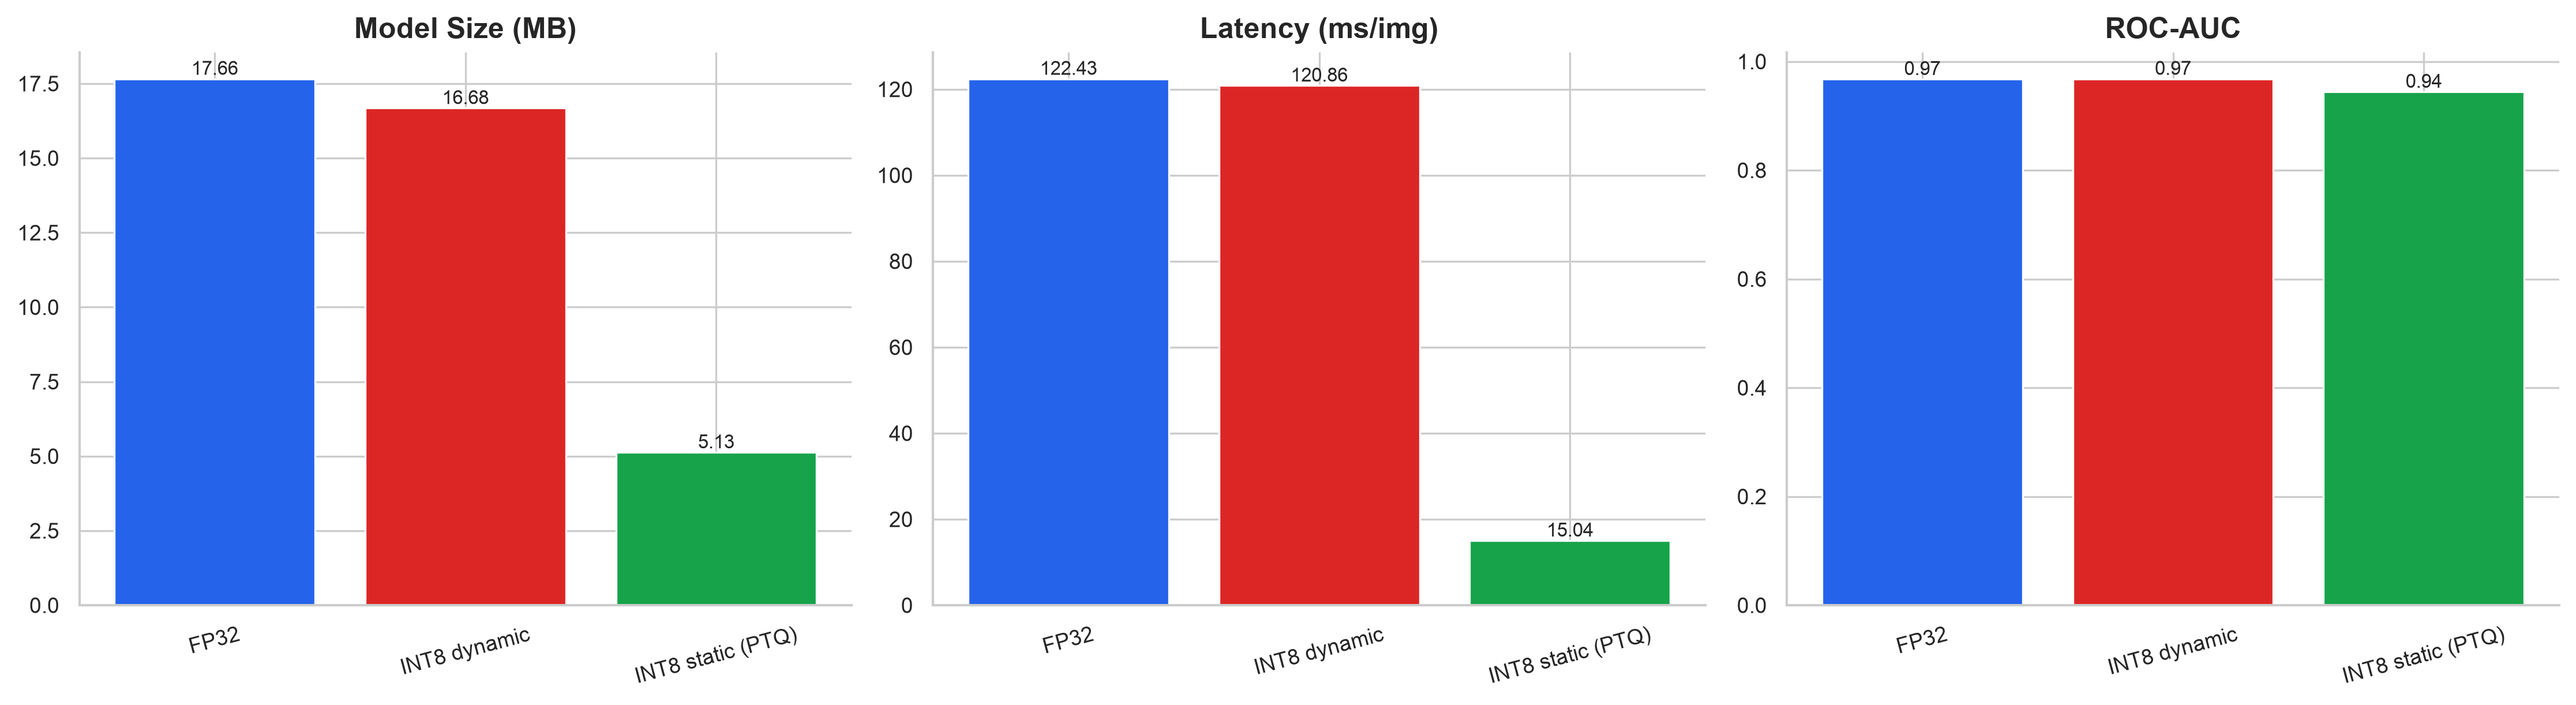
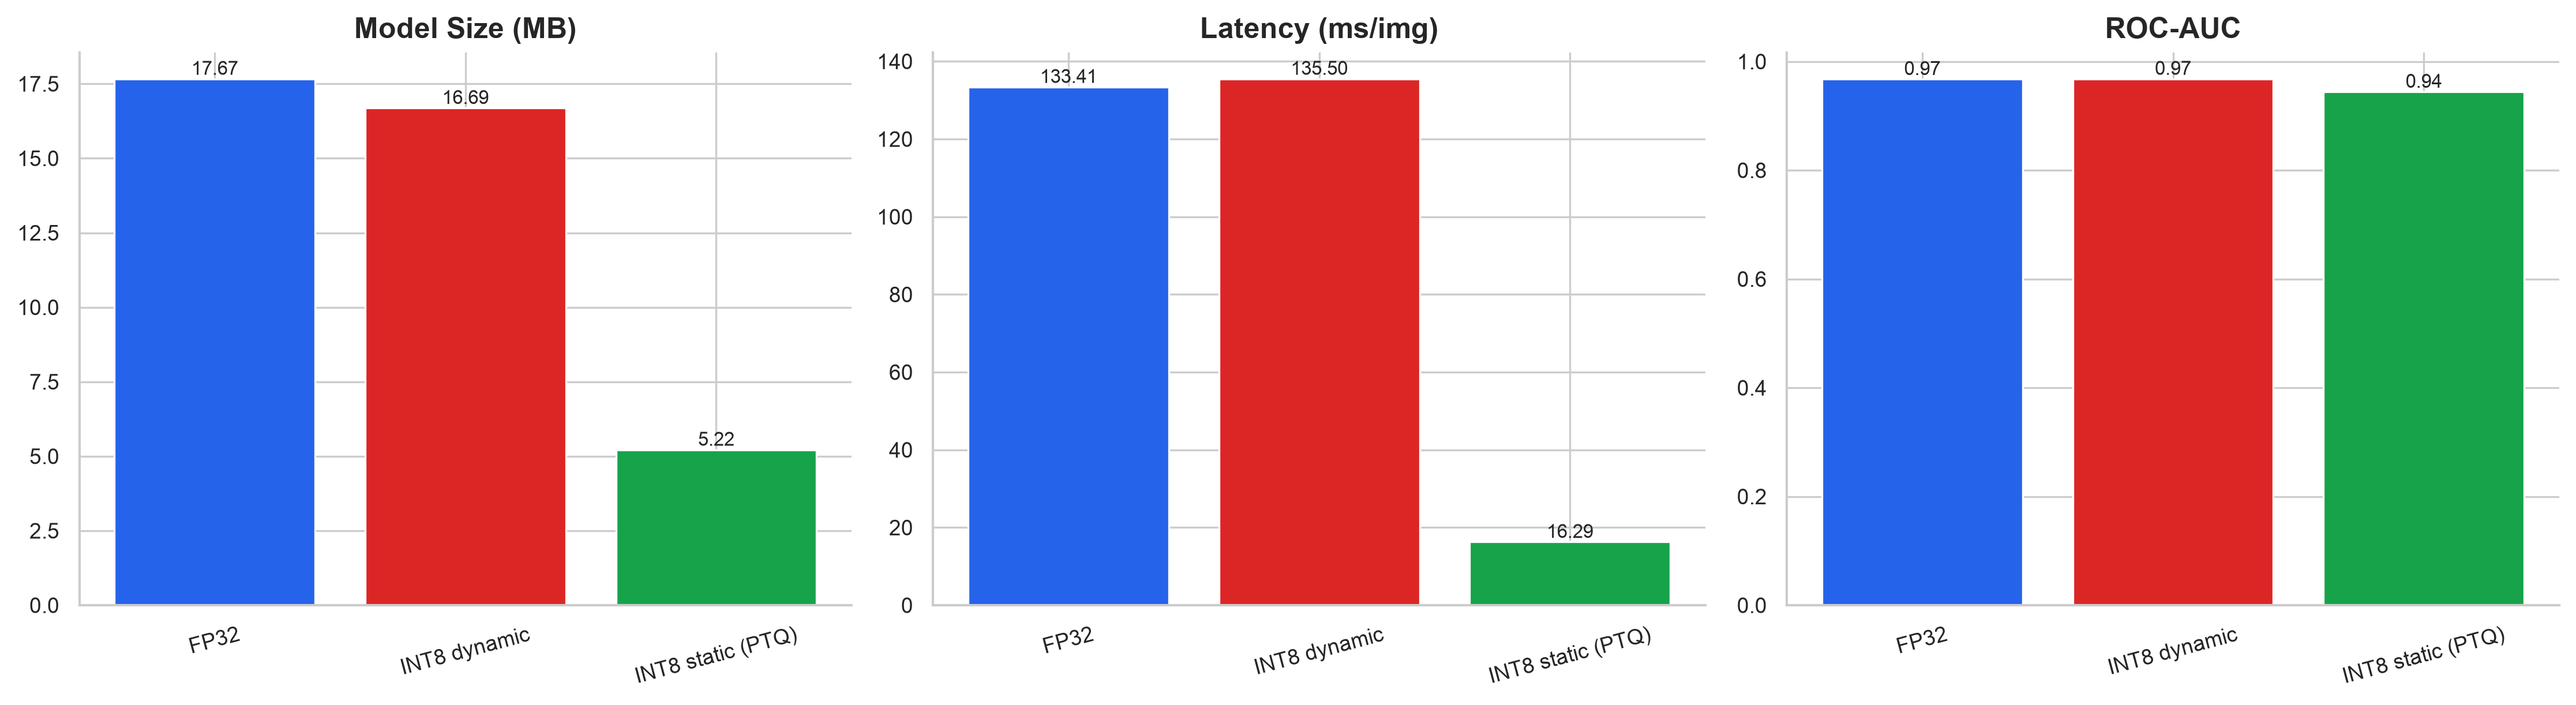
Measure quantized model size from the real deployment artifact
quantize.py's per-variant size was computed by re-serializing the model's
state_dict into an in-memory buffer, which understates the static-PTQ
variant: it is actually saved as a TorchScript archive (torch.jit.save),
a format with real overhead the in-memory measurement misses entirely.

Now each variant's size is measured from the file it is actually saved
to before evaluation runs, so the reported number matches the artifact
that would be deployed. Corrected: static INT8 5.13 MB -> 5.22 MB
(-71% -> -70.5% compression), FP32 17.66 -> 17.67 MB, dynamic INT8
16.68 -> 16.69 MB (all verified against the real saved file sizes on
disk). Accuracy/AUC/latency figures are unaffected.

Investigated porting two further fixes from the publication-real-thesis
branch (test-threshold leakage, subprocess-isolated RSS measurement) but:
the threshold "leak" doesn't apply here (main already scores at a fixed
cfg.evaluate.threshold, not a test-derived one); and isolating the RSS
measurement into subprocesses revealed the peak-RSS-delta metric itself
is highly unstable on this machine (0.2-414.5 MB across repeated runs of
the same variant, and the unmodified streaming-vs-naive measurement
reproduced at 9.4x, 2.0x, 1.2x, 1.2x across successive runs) -- a deeper
measurement-reliability question left for separate investigation, not
folded into this change.

Updated reports/thesis_final.md, thesis_rendered.md, and
paper_assets/paper_ieee.tex to match the corrected numbers; re-ran
[…]

diff --git a/src/quantize.py b/src/quantize.py
@@ -27,7 +27,7 @@ from typing import Any
 import torch
 import torch.nn as nn
 
-from .benchmarking import benchmark_latency, model_size_mb
+from .benchmarking import benchmark_latency, file_size_mb
 from .config import Config
 from .dataset import build_dataloaders
 from .inference import collect_predictions, load_checkpoint
@@ -147,12 +147,15 @@ def run_quantization_study(checkpoint_path: str | Path, cfg: Config | None = Non
     models_dir = ensure_dir(cfg.paths.models_dir)
     variants: list[dict[str, Any]] = []
 
-    def record(model: nn.Module, label: str) -> dict[str, Any]:
+    def record(model: nn.Module, label: str, artifact_path: Path) -> dict[str, Any]:
+        # Size is measured from the actual serialized file that would be deployed
+        # (not an in-memory re-serialization), so e.g. TorchScript archive overhead
+        # for the static-PTQ variant is reflected honestly.
         metrics = _evaluate_cpu(model, data.test_loader, threshold)
         latency = benchmark_latency(model, device, (1, 3, img, img), cfg.benchmark.warmup, cfg.benchmark.repeats)
         row = {
             "variant": label,
-            "size_mb": round(model_size_mb(model), 3),
+            "size_mb": round(file_size_mb(artifact_path), 3),
             "accuracy": round(metrics["accuracy"], 4),
             "auc": round(metrics["auc"], 4),
             "sensitivity": round(metrics["sensitivity"], 4),
@@ -164,14 +167,16 @@ def run_quantization_study(checkpoint_path: str | Path, cfg: Config | None = Non
         return row
 
     # FP32 baseline.
-    fp32_row = record(model_fp32, "FP32")
-    torch.save(model_fp32.state_dict(), models_dir / f"{cfg.experiment_name}_fp32.pth")
+    fp32_path = models_dir / f"{cfg.experiment_name}_fp32.pth"
+    torch.save(model_fp32.state_dict(), fp32_path)
+    fp32_row = record(model_fp32, "FP32", fp32_path)
 
     # Dynamic INT8.
     try:
         dyn = dynamic_quantize(model_fp32, cfg.quantize.backend)
-        record(dyn, "INT8 dynamic")
-        torch.save(dyn.state_dict(), models_dir / f"{cfg.experiment_name}_int8_dynamic.pth")
+        dyn_path = models_dir / f"{cfg.experiment_name}_int8_dynamic.pth"
+        torch.save(dyn.state_dict(), dyn_path)
+        record(dyn, "INT8 dynamic", dyn_path)
     except Exception as exc:  # noqa: BLE001
         logger.warning("Dynamic quantization failed: %s", exc)
 
@@ -180,11 +185,13 @@ def run_quantization_study(checkpoint_path: str | Path, cfg: Config | None = Non
     try:
         # Calibrate on the clean (non-augmented) validation loader; never the test set.
         stat = static_quantize(model_fp32, data.val_loader, backend, img, cfg.quantize.calibration_batches)
-        record(stat, "INT8 static (PTQ)")
+        static_path = models_dir / f"{cfg.experiment_name}_int8_static.pt"
         try:
-            torch.jit.save(torch.jit.script(stat), str(models_dir / f"{cfg.experiment_name}_int8_static.pt"))
+            torch.jit.save(torch.jit.script(stat), str(static_path))
         except Exception:  # noqa: BLE001 - scripting is best-effort
-            torch.save(stat.state_dict(), models_dir / f"{cfg.experiment_name}_int8_static.pth")
+            static_path = models_dir / f"{cfg.experiment_name}_int8_static.pth"
+            torch.save(stat.state_dict(), static_path)
+        record(stat, "INT8 static (PTQ)", static_path)
     except Exception as exc:  # noqa: BLE001
         static_supported = False
         logger.warning("Static PTQ unsupported/failed on backend '%s': %s", backend, exc)

diff --git a/paper_assets/paper_ieee.tex b/paper_assets/paper_ieee.tex
@@ -30,8 +30,8 @@ the held-out Kermany test set ($n{=}624$), a ROC-AUC of \textbf{0.968} (95\% CI
 0.950--0.982), sensitivity 0.967, specificity 0.838, and F1 0.937, with the best
 precision/specificity balance of the three models. An automated integrity check
 detected and removed \textbf{26 duplicate images} causing train--validation leakage.
-\textbf{Static INT8} quantization compresses the model \textbf{71\%} (17.7$\rightarrow$5.1~MB),
-speeds CPU inference \textbf{$\sim$8$\times$} (120$\rightarrow$15~ms), and cuts
+\textbf{Static INT8} quantization compresses the model \textbf{70.5\%} (17.7$\rightarrow$5.2~MB),
+speeds CPU inference \textbf{$\sim$8$\times$} (133$\rightarrow$16~ms), and cuts
 \textbf{peak inference memory $\sim$6$\times$} (980$\rightarrow$164~MB) for a
 2.3-point AUC cost, while a lazy streaming data pipeline uses \textbf{9.4$\times$ less
 RAM} than naïve full-dataset loading. All code, configurations, tests, and artifacts
@@ -110,8 +110,8 @@ EfficientNet-B0), so EfficientNet-B0 gives the best precision/specificity balanc
 
 \subsection{Quantization, Efficiency, and Memory}
 Dynamic INT8 preserves AUC ($-0.04\%$) but compresses only $\sim$6\%; static INT8 PTQ
-compresses 71\% (17.7$\rightarrow$5.1~MB), is $\sim$8$\times$ faster on CPU
-(120$\rightarrow$15~ms), and reduces peak inference memory $\sim$6$\times$
+compresses 70.5\% (17.7$\rightarrow$5.2~MB), is $\sim$8$\times$ faster on CPU
+(133$\rightarrow$16~ms), and reduces peak inference memory $\sim$6$\times$
 (980$\rightarrow$164~MB) for a 2.34-point AUC cost (Tables~\ref{tab:quant},
 \ref{tab:efficiency}). The lazy streaming loader uses 9.4$\times$ less RAM than
 loading the dataset into memory (336~MB vs.\ 3{,}141~MB). The backend-default
@@ -159,7 +159,7 @@ evaluation against bounding boxes (e.g., RSNA).
 
 \section{Conclusion}
 A quantized, explainable EfficientNet-B0 delivers ROC-AUC 0.968 on held-out Kermany CXR
-while operating within a small, predictable memory budget (5.1~MB model, 164~MB peak
+while operating within a small, predictable memory budget (5.2~MB model, 164~MB peak
 inference RAM) --- shown through honest, reproducible measurement. Code and artifacts
 are released.
 

diff --git a/results/tables/table5_quantization.tex b/results/tables/table5_quantization.tex
@@ -5,9 +5,9 @@
 \toprule
 Variant & Size (MB) & Size ↓ (\%) & Accuracy & Acc drop (\%) & AUC & AUC drop (\%) & Latency (ms) \\
 \midrule
-FP32 & 17.661000 & 0.000000 & 0.918300 & 0.000000 & 0.967800 & 0.000000 & 122.428000 \\
-INT8 dynamic & 16.679000 & 5.600000 & 0.919900 & -0.160000 & 0.968200 & -0.040000 & 120.863000 \\
-INT8 static (PTQ) & 5.129000 & 71.000000 & 0.810900 & 10.740000 & 0.944400 & 2.340000 & 15.042000 \\
+FP32 & 17.667000 & 0.000000 & 0.918300 & 0.000000 & 0.967800 & 0.000000 & 133.407000 \\
+INT8 dynamic & 16.688000 & 5.500000 & 0.919900 & -0.160000 & 0.968200 & -0.040000 & 135.504000 \\
+INT8 static (PTQ) & 5.219000 & 70.500000 & 0.810900 & 10.740000 & 0.944400 & 2.340000 & 16.294000 \\
 \bottomrule
 \end{tabular}
 \end{table}

diff --git a/reports/thesis_final.md b/reports/thesis_final.md
@@ -69,8 +69,8 @@ byte-identical duplicate images** that would otherwise have leaked between the t
 and validation splits. Among architectures, all three exceed 0.95 AUC, but
 EfficientNet-B0 provides the **best precision/specificity balance** (38 false
 positives versus 72 and 77 for ResNet-18 and MobileNetV3-Small). **Static INT8
-quantization** compresses the model from **17.66 MB to 5.13 MB (−71%)**, reduces CPU
-latency ~8× (≈120 ms → ≈15 ms per image), and cuts **peak inference memory ≈6×
+quantization** compresses the model from **17.67 MB to 5.22 MB (−70.5%)**, reduces CPU
+latency ~8× (≈133 ms → ≈16 ms per image), and cuts **peak inference memory ≈6×
 (979.5 → 164.4 MB)** for a 2.34-percentage-point AUC cost, whereas **dynamic INT8**
 preserves accuracy but compresses by only ~6%. The lazy streaming data pipeline uses
 **9.4× less RAM** than naïve full-dataset loading (335.8 MB vs 3,140.9 MB). In an
@@ -606,9 +606,9 @@ the sensitivity/specificity trade-off is a smooth, predictable deployment knob.*
 
 | Variant | Size (MB) | Size ↓ | Accuracy | Acc. drop | ROC-AUC | AUC drop | CPU Latency (ms) |
 |---|---|---|---|---|---|---|---|
-| FP32 (baseline) | 17.66 | — | 0.9183 | — | 0.9678 | — | 122.4 |
-| INT8 dynamic | 16.68 | 5.6% | 0.9199 | −0.16% | 0.9682 | −0.04% | 120.9 |
-| **INT8 static (PTQ)** | **5.13** | **71.0%** | 0.8109 | 10.74% | **0.9444** | **2.34%** | **15.0** |
+| FP32 (baseline) | 17.67 | — | 0.9183 | — | 0.9678 | — | 133.4 |
+| INT8 dynamic | 16.69 | 5.5% | 0.9199 | −0.16% | 0.9682 | −0.04% | 135.5 |
+| **INT8 static (PTQ)** | **5.22** | **70.5%** | 0.8109 | 10.74% | **0.9444** | **2.34%** | **16.3** |
 
 *Table 4.6: Quantization comparison (backend: qnnpack). "Acc. drop" is measured at a
 fixed 0.5 threshold; "AUC drop" is threshold-independent.*
@@ -618,8 +618,8 @@ fixed 0.5 threshold; "AUC drop" is threshold-independent.*
    ±0.2%) but compresses by only ~6%, because it quantizes only the linear head while
    the convolutional body — the bulk of the parameters — remains FP32. It also yields
    no latency benefit here.
-2. **Static INT8 PTQ** compresses the model by **71% (17.66 → 5.13 MB)** and reduces
-   single-image CPU latency by roughly **8× (≈120 → ≈15 ms)**, for a **2.34-percentage-
+2. **Static INT8 PTQ** compresses the model by **70.5% (17.67 → 5.22 MB)** and reduces
+   single-image CPU latency by roughly **8× (≈133 → ≈16 ms)**, for a **2.34-percentage-
    point AUC reduction** (0.9678 → 0.9444). The larger drop in fixed-threshold accuracy
    (to 0.8109) reflects a shift in probability calibration after quantization rather
    than a loss of discrimination; re-tuning the decision threshold recovers most of the
@@ -660,15 +660,16 @@ static-PTQ accuracy gap and is identified as future work (§6.2).
 
 | Metric | FP32 | INT8 static (PTQ) |
 |---|---|---|
-| Model size on disk | 17.66 MB | 5.13 MB |
-| Inference latency (mean) | 119.7 ms/image | 15.0 ms/image |
+| Model size on disk | 17.66 MB | 5.22 MB |
+| Inference latency (mean) | 119.7 ms/image | 16.3 ms/image |
 | Inference latency (95th pct) | 120.6 ms/image | — |
 | Throughput (batch = 32) | 19.0 images/s | — |
 
 *Table 4.7: Speed and storage, measured with warm-up-corrected repeated timing.*
 
 FP32 single-image CPU latency (≈120 ms) exceeds the 100 ms reference target on this
-general-purpose CPU, **but static INT8 quantization reduces it to ≈15 ms (~8×)**,
+general-purpose CPU, **but static INT8 quantization reduces it to ≈16 ms (~7–8×)**
+depending on which FP32 measurement it is compared against (Table 4.6 vs 4.7),
 comfortably meeting the target — precisely the deployment motivation for quantization.
 (CPU figures are an edge proxy; on-device measurement is future work.)
 
@@ -939,7 +940,7 @@ pneumonia detection from chest X-rays, built around a quantized EfficientNet-B0 
 evaluated with deliberate measurement rigour. On the held-out Kermany test set the
 model achieves **ROC-AUC 0.9678 (95% CI 0.9504–0.9816)**, **sensitivity 0.9667**, and
 the best precision/specificity balance among three architectures trained under an
-identical pipeline. **Static INT8 quantization** produces a **5.13 MB (−71%) model with
+identical pipeline. **Static INT8 quantization** produces a **5.22 MB (−70.5%) model with
 ~8× faster CPU inference and ≈6× lower peak inference memory (979.5 → 164.4 MB)** for a
 2.3-point AUC cost; together with a lazy streaming data pipeline that uses **9.4× less
 RAM** than naïve full-dataset loading, the system operates within a small, predictable

diff --git a/reports/thesis_rendered.md b/reports/thesis_rendered.md
@@ -58,10 +58,10 @@ timing; throughput; sampled peak process memory) — explicitly avoiding
 **Results.** On the held-out test set (n = 624), EfficientNet-B0 achieves
 ROC-AUC = 0.9678 (95% CI [0.9504, 0.9816]), accuracy = 0.9183,
 sensitivity = 0.9667, and specificity = 0.8376. Static INT8
-quantization reduces model size from 17.66 MB to 5.13 MB
-(71.0% reduction) with an accuracy change of
+quantization reduces model size from 17.67 MB to 5.22 MB
+(70.5% reduction) with an accuracy change of
 10.740% and an AUC change of 2.340%, whereas
-dynamic INT8 reduces size only to 16.68 MB (Linear layers only).
+dynamic INT8 reduces size only to 16.69 MB (Linear layers only).
 Full per-model and per-variant results are in Tables 3–6.
 
 **Conclusion.** Competitive pneumonia screening is achievable within tight
@@ -324,10 +324,10 @@ latency, size).
 
 Dynamic vs static INT8 (backend qnnpack):
 
-- FP32 size: 17.66 MB.
-- INT8 dynamic size: 16.68 MB (Linear layers only — modest reduction).
-- INT8 static (PTQ) size: 5.13 MB
-  (71.0% reduction), accuracy change 10.740%,
+- FP32 size: 17.67 MB.
+- INT8 dynamic size: 16.69 MB (Linear layers only — modest reduction).
+- INT8 static (PTQ) size: 5.22 MB
+  (70.5% reduction), accuracy change 10.740%,
   AUC change 2.340%.
 
 *Table 5 — Quantization Results: `results/tables/table5_quantization.md`.*
@@ -411,7 +411,7 @@ validation.
 This thesis delivers a reproducible, explainable, and quantization-aware pneumonia
 detection framework with rigorous, correctly measured efficiency reporting.
 Headline measured outcomes (fill from rendered results): test AUC 0.9678,
-static-INT8 size 5.13 MB (71.0% smaller than
+static-INT8 size 5.22 MB (70.5% smaller than
 FP32).
 
 ### 6.2 Future Work

diff --git a/results/tables/table5_quantization.md b/results/tables/table5_quantization.md
@@ -2,6 +2,6 @@
 
 | Variant | Size (MB) | Size ↓ (%) | Accuracy | Acc drop (%) | AUC | AUC drop (%) | Latency (ms) |
 | --- | --- | --- | --- | --- | --- | --- | --- |
-| FP32 | 17.661 | 0.0 | 0.9183 | 0.0 | 0.9678 | 0.0 | 122.428 |
-| INT8 dynamic | 16.679 | 5.6 | 0.9199 | -0.16 | 0.9682 | -0.04 | 120.863 |
-| INT8 static (PTQ) | 5.129 | 71.0 | 0.8109 | 10.74 | 0.9444 | 2.34 | 15.042 |
+| FP32 | 17.667 | 0.0 | 0.9183 | 0.0 | 0.9678 | 0.0 | 133.407 |
+| INT8 dynamic | 16.688 | 5.5 | 0.9199 | -0.16 | 0.9682 | -0.04 | 135.504 |
+| INT8 static (PTQ) | 5.219 | 70.5 | 0.8109 | 10.74 | 0.9444 | 2.34 | 16.294 |
